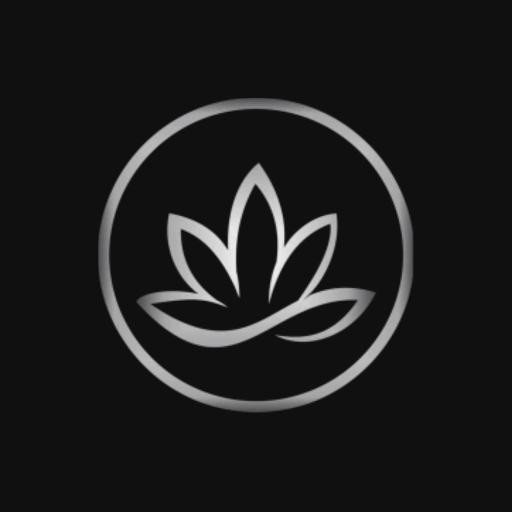
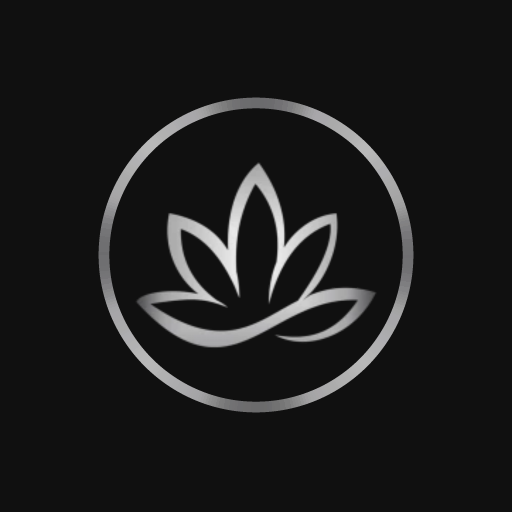
sw v17: ikon aplikasi dengan cincin lingkaran sempurna (dashboard v943), manifest ?v=2

diff --git a/sw.js b/sw.js
@@ -25,7 +25,9 @@
 /* v14 (2026-10-01 sore): jam laser tanpa lompat di awal (index.html). */
 /* v15 (2026-10-01 sore): iframe dashboard dipasang sesudah ukiran selesai (index.html). */
 /* v16 (2026-10-01 malam): unduhan selalu disalin ke cache + pesan bukaUnduhan (banner dashboard membuka PDF). */
-const VERSI = 'padma-pembungkus-v16';
+/* v17 (2026-10-02): ikon aplikasi digambar ulang -- cincin lingkaran sempurna (pemilik: "kanan kirinya tidak lingkaran
+   sempurna"); manifest memakai ?v=2 supaya Chrome mengambil ikon baru. */
+const VERSI = 'padma-pembungkus-v17';
 const UNDUHAN = 'padma-unduhan';
 const CDN = 'padma-cdn-v1';
 const DI_PAGES = ('.' + self.location.hostname).endsWith('.padmagroup.pages.dev');
